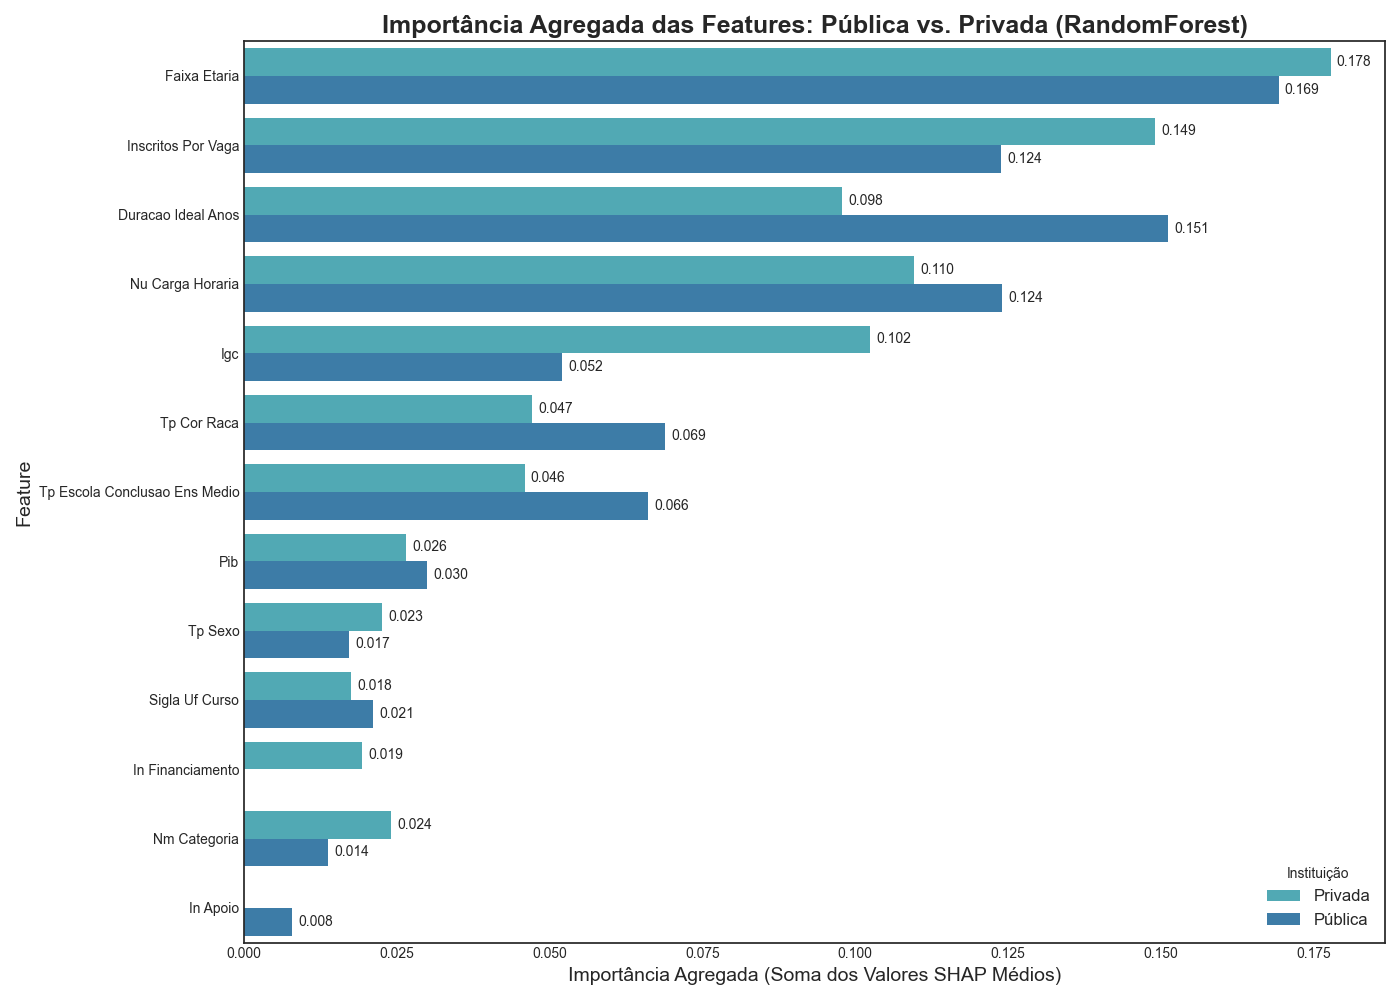
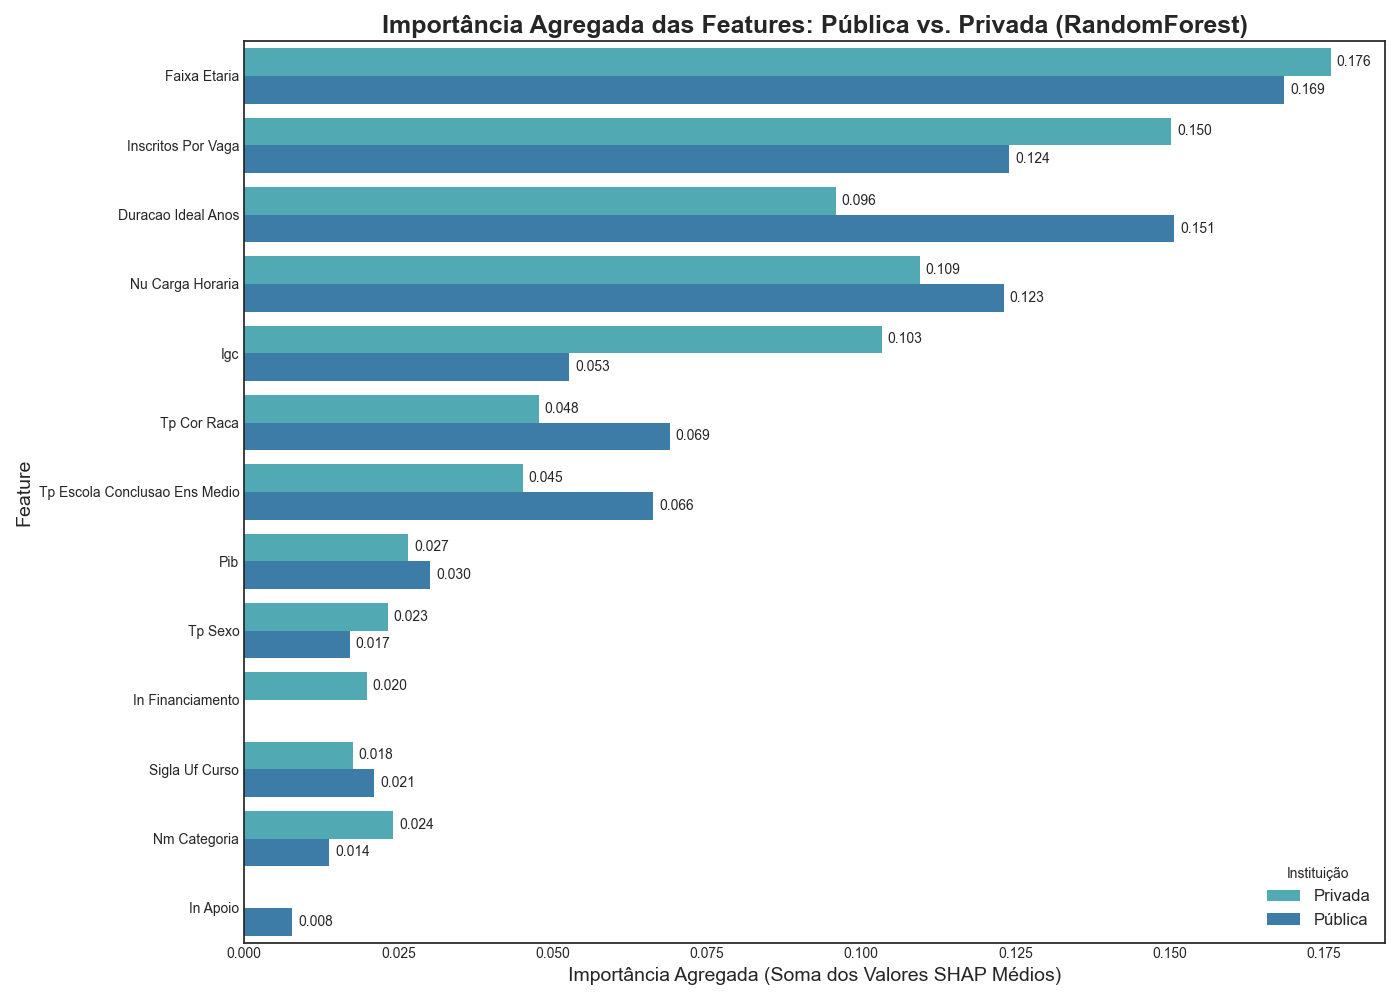
Correcao de graficos e tabela

diff --git a/src/database_analise.py b/src/database_analise.py
@@ -81,7 +81,8 @@ def create_comparative_charts(target_column):
         'tp_escola_conclusao_ens_medio',
         'tp_grau_academico',
         'no_regiao_ies',
-        'nm_categoria'
+        'nm_categoria',
+        'sigla_uf_curso'
     ]
 
     print(f"\nIniciando geração de {len(features_to_analyze)} gráficos...")
@@ -100,7 +101,12 @@ def create_comparative_charts(target_column):
 
         # Estilo e tamanho da figura
         plt.style.use('seaborn-v0_8-whitegrid')
-        plt.figure(figsize=(14, 8))
+        if feature == 'nm_categoria':
+            # Aumenta significativamente a largura para acomodar os muitos rótulos
+            plt.figure(figsize=(24, 10)) 
+        else:
+            # Tamanho padrão para os outros gráficos
+            plt.figure(figsize=(16, 10))
 
         # Cria o gráfico de barras usando Seaborn
         ax = sns.barplot(
@@ -112,12 +118,17 @@ def create_comparative_charts(target_column):
         )
 
         # Títulos e labels
-        plt.title(f'Análise da Média de "{y_axis_title}" por "{feature}"', fontsize=16, fontweight='bold')
-        plt.ylabel(f'Média de {y_axis_title}', fontsize=12)
-        plt.xlabel(feature, fontsize=12)
+        plt.title(f'Análise da Média de "{y_axis_title}" por "{feature}"', fontsize=18, fontweight='bold')
+        plt.ylabel(f'Média de {y_axis_title}', fontsize=14)
+        plt.xlabel(feature, fontsize=14)
         
         # Ajustes no eixo X para melhor legibilidade
-        plt.xticks(rotation=45, ha='right')
+        if feature in ['nm_categoria', 'sigla_uf_curso']:
+            # Se for uma dessas features com muitos rótulos, diminui a fonte
+            plt.xticks(rotation=45, ha='right', fontsize=8)
+        else:
+            # Mantém o padrão para os outros gráficos
+            plt.xticks(rotation=45, ha='right')
         
         # Adiciona os valores numéricos no topo de cada barra
         for container in ax.containers:
@@ -125,7 +136,7 @@ def create_comparative_charts(target_column):
                 height = p.get_height()
                 if pd.notna(height) and height > 0:
                     ax.text(p.get_x() + p.get_width() / 2., height, f'{height:.2f}', 
-                            ha='center', va='bottom', fontsize=10, color='black')
+                            ha='center', va='bottom', fontsize=12, color='black')
 
         # Layout e salvamento do arquivo
         plt.tight_layout()
@@ -234,9 +245,163 @@ def create_comparative_charts(target_column):
         plt.close()
 
         print(f"-> Gráfico de {plot_type} para '{feature}' salvo em: {plot_path}")
-            
-    print("\n--- Análise concluída com sucesso! ---")
+    
+    print(f"\n--- Gerando Tabela Resumo para Features Categóricas (Alvo: {target_column}) ---")
 
+    # 1. Definir os dados de importância (SHAP) extraídos da imagem
+    # (Feature, Tipo IES): Valor
+    # Nota: Usamos apenas a INTERSECÇÃO entre as features categóricas do script
+    # ('features_to_analyze') e as features da imagem SHAP.
+    
+    # Mapeamento de nomes do script para nomes da imagem:
+    # 'faixa_etaria' -> 'Faixa Etaria'
+    # 'tp_cor_raca' -> 'Tp Cor Raca'
+    # 'tp_escola_conclusao_ens_medio' -> 'Tp Escola Conclusao Ens Medio'
+    # 'tp_sexo' -> 'Tp Sexo'
+    # 'nm_categoria' -> 'Nm Categoria'
+    
+    shap_data = {
+        # ('Feature_Script', 'Tipo IES_Script'): Valor_SHAP_Imagem
+        ('faixa_etaria', 'PUBLICA'): 0.169,
+        ('faixa_etaria', 'PRIVADA'): 0.176,
+        ('tp_cor_raca', 'PUBLICA'): 0.048,
+        ('tp_cor_raca', 'PRIVADA'): 0.069,
+        ('tp_escola_conclusao_ens_medio', 'PUBLICA'): 0.045,
+        ('tp_escola_conclusao_ens_medio', 'PRIVADA'): 0.066,
+        ('tp_sexo', 'PUBLICA'): 0.017,
+        ('tp_sexo', 'PRIVADA'): 0.023,
+        ('nm_categoria', 'PUBLICA'): 0.024,
+        ('nm_categoria', 'PRIVADA'): 0.014,
+        ('sigla_uf_curso', 'PUBLICA'): 0.018, 
+        ('sigla_uf_curso', 'PRIVADA'): 0.021 
+    }
+    
+    # Converte para uma Série pandas com MultiIndex
+    s_shap = pd.Series(shap_data, name='Importancia_SHAP_Agregada')
+    s_shap.index.names = ['Feature', 'Tipo IES']
+
+    # 2. Identificar as features categóricas que temos dados SHAP
+    # Filtra a lista 'features_to_analyze' para conter apenas as que estão em 's_shap'
+    categorical_features_with_shap = [
+        f for f in features_to_analyze if f in s_shap.index.get_level_values('Feature')
+    ]
+
+    # 3. Loop para calcular médias e juntar com dados SHAP
+    all_tables = []
+    for feature in categorical_features_with_shap:
+        if feature not in combined_df.columns:
+            print(f"AVISO: Feature '{feature}' para tabela resumo não encontrada no DataFrame. Pulando.")
+            continue
+            
+        # Calcula a média da variável-alvo por categoria
+        # .dropna() remove categorias nulas (ex: NaN em 'tp_sexo' se houver)
+        df_mean = combined_df.dropna(subset=[feature])\
+                             .groupby(['Tipo IES', feature])[target_column]\
+                             .mean().reset_index()
+        
+        # Renomeia colunas para o relatório final
+        df_mean = df_mean.rename(columns={
+            feature: 'Categoria', 
+            target_column: f'Media_{target_column}'
+        })
+        
+        # Adiciona o nome da feature principal
+        df_mean['Feature'] = feature
+        
+        # Define o mesmo índice que a série SHAP para poder fazer o 'join'
+        df_mean = df_mean.set_index(['Feature', 'Tipo IES'])
+        
+        # Junta a média por categoria com a importância agregada da feature
+        combined_table_feature = df_mean.join(s_shap)
+        
+        all_tables.append(combined_table_feature)
+
+    # 4. Combinar e exibir a tabela final
+    if all_tables:
+        # Concatena todas as tabelas de features (formato longo)
+        final_report_table_long = pd.concat(all_tables).reset_index()
+        
+        print("\n--- Gerando Tabela Resumo Pivotada (Formato Largo) ---")
+
+        # --- INÍCIO DA MODIFICAÇÃO (Pivotar a Tabela) ---
+        
+        # 1. Pivotar a tabela
+        # Index: O que permanece como linha (Feature e sua Categoria)
+        # Columns: O que vai virar coluna (PUBLICA / PRIVADA)
+        # Values: Os valores que serão distribuídos
+        try:
+            pivoted_table = final_report_table_long.pivot_table(
+                index=['Feature', 'Categoria'],
+                columns=['Tipo IES'],
+                values=[f'Media_{target_column}', 'Importancia_SHAP_Agregada']
+            )
+
+            # 2. Achatar os MultiIndex das colunas 
+            # (ex: ('Media_taxa_integralizacao', 'PUBLICA') -> 'Media_taxa_integralizacao_PUBLICA')
+            pivoted_table.columns = [f'{val_col}_{tipo_ies_col}' for val_col, tipo_ies_col in pivoted_table.columns.values]
+
+            # 3. Resetar o índice para que 'Feature' e 'Categoria' voltem a ser colunas
+            final_report_table = pivoted_table.reset_index()
+
+            # 4. (Opcional) Reordenar as colunas para uma melhor visualização (agrupar por métrica)
+            col_media_publica = f'Media_{target_column}_PUBLICA'
+            col_media_privada = f'Media_{target_column}_PRIVADA'
+            col_shap_publica = 'Importancia_SHAP_Agregada_PUBLICA'
+            col_shap_privada = 'Importancia_SHAP_Agregada_PRIVADA'
+
+            # Define a ordem desejada, garantindo que as colunas existam
+            desired_order = ['Feature', 'Categoria']
+            
+            # Adiciona colunas de Média se existirem
+            if col_media_publica in final_report_table.columns:
+                desired_order.append(col_media_publica)
+            if col_media_privada in final_report_table.columns:
+                desired_order.append(col_media_privada)
+                
+            # Adiciona colunas de SHAP se existirem
+            if col_shap_publica in final_report_table.columns:
+                desired_order.append(col_shap_publica)
+            if col_shap_privada in final_report_table.columns:
+                desired_order.append(col_shap_privada)
+                
+            # Captura quaisquer outras colunas (embora não deva haver)
+            other_cols = [c for c in final_report_table.columns if c not in desired_order]
+            
+            final_report_table = final_report_table[desired_order + other_cols]
+
+        except Exception as e:
+            print(f"ERRO ao pivotar a tabela: {e}")
+            print("Continuando com a tabela longa original.")
+            # Fallback para o comportamento antigo se o pivô falhar
+            final_report_table = final_report_table_long.reindex(columns=[
+                'Feature', 
+                'Tipo IES', 
+                'Categoria', 
+                f'Media_{target_column}', 
+                'Importancia_SHAP_Agregada'
+            ])
+            
+        # --- FIM DA MODIFICAÇÃO ---
+        
+        # Ajusta opções do pandas para imprimir a tabela completa
+        pd.set_option('display.max_rows', None)
+        pd.set_option('display.max_columns', None)
+        pd.set_option('display.width', 1000)
+        
+        print("\nTabela de Resumo (Importância Agregada vs. Média da Variável Alvo por Categoria):")
+        # Usar to_string() para garantir que tudo seja impresso
+        print(final_report_table.to_string(index=False))
+        
+        # Opcional: Salvar em CSV
+        report_table_path = os.path.join(REPORTS_PATH, f'resumo_categorico_{target_column}.csv')
+        final_report_table.to_csv(report_table_path, index=False, sep=';', decimal=',')
+        print(f"\nTabela de resumo salva em: {report_table_path}")
+        
+    else:
+        print("Nenhuma tabela de resumo foi gerada (nenhuma feature categórica em comum encontrada).")
+
+        
+    print("\n--- Análise concluída com sucesso! ---")
 
 if __name__ == '__main__':
     parser = argparse.ArgumentParser(description='Gera gráficos descritivos comparando IES Públicas e Privadas a partir de arquivos CSV.')

diff --git a/src/predict.py b/src/predict.py
@@ -212,13 +212,7 @@ def analyze_model_with_shap(model_name):
 
     # Lista de colunas para garantir o tipo correto, replicando o preprocessor.py
     # Assumindo estas colunas com base no preprocessor.py e run_and_save_all_scenarios
-    numerical_cols_example = ['faixa_etaria', 'nu_carga_horaria', 'duracao_ideal_anos', 'igc'] 
-    categorical_cols_example = [
-        'tp_cor_raca', 'tp_escola_conclusao_ens_medio', 
-        'tp_modalidade_ensino', 'in_financiamento_estudantil', 
-        'in_apoio_social', 'tp_grau_academico', 'tp_categoria_administrativa'
-    ]
-
+    
     for inst_type in ['publica', 'privada']:
         print(f"\nAnalisando modelo para IES: {inst_type.upper()}")
         
@@ -270,8 +264,7 @@ def analyze_model_with_shap(model_name):
             'tp_categoria_administrativa': 'object',
             'no_regiao_ies': 'object',
             'igc': 'float64',
-            'taxa_integralizacao': 'float64',
-            'nu_ano_censo': 'int64' # Incluindo nu_ano_censo, se ele estiver nos dados de teste
+            'taxa_integralizacao': 'float64'
         }
         
         # Remove colunas dos dados de teste que não estão no dicionário de target

diff --git a/src/runtests.py b/src/runtests.py
@@ -34,11 +34,11 @@ args = parser.parse_args()
 if args.model == 'RandomForest':
     model = RandomForestRegressor(random_state=42, n_jobs=-1)
     param_grid = {
-        'n_estimators': [200, 300, 400],
-        'max_depth': [10, 20, None],
-        'min_samples_split': [2, 5, 10],
-        'min_samples_leaf': [1, 2, 4],
-        'max_features': ['log2', 'sqrt', None],
+        'n_estimators': [400, 500 , 600],
+        'max_depth': [None],
+        'min_samples_split': [2,3],
+        'min_samples_leaf': [1, 2],
+        'max_features': ['sqrt', None],
         'criterion': ['squared_error']
     }
     param_distributions = {

diff --git a/src/modeling/train.py b/src/modeling/train.py
@@ -18,10 +18,10 @@ def train_model(X_train, y_train,params= None):
         params = {
             'bootstrap': True, 
             'criterion': 'squared_error',
-            'max_depth': 30, 
+            'max_depth': None, 
             'min_samples_leaf': 1,
             'min_samples_split': 2,
-            'n_estimators': 300
+            'n_estimators': 400
         }
     
     if 'n_estimators' not in params:
